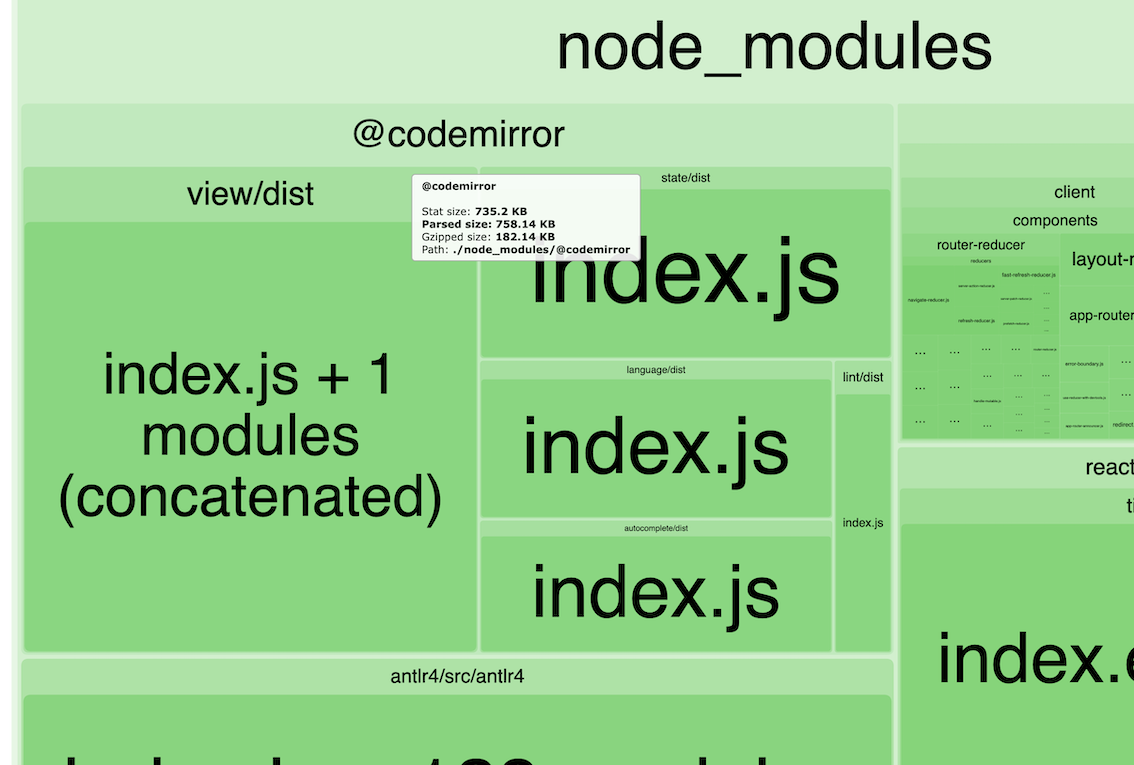
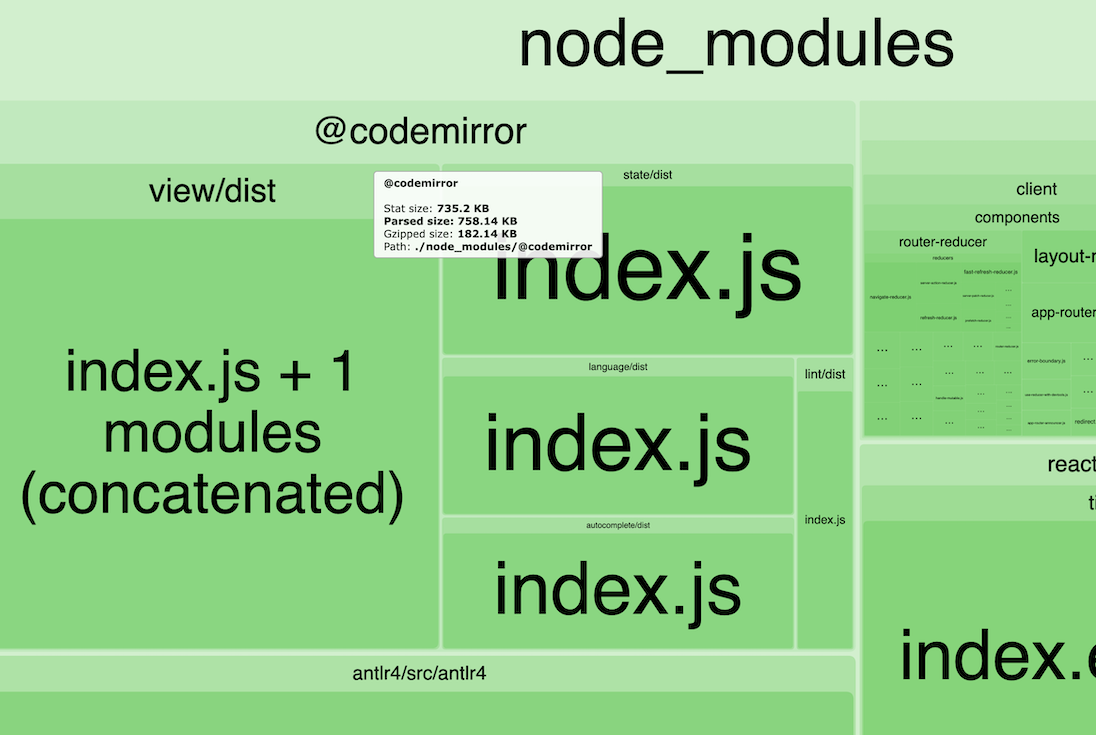
Fixed image orientation for performance analysis page

diff --git a/components/Pages/Performance.js b/components/Pages/Performance.js
@@ -68,30 +68,32 @@ const MainPerformance = () => {
               style={{ marginTop: "1rem" }}
               alt="Performance analysis"
             />
-            <h1
-              id="section2"
-              style={{
-                color: themeStyles.col02.color,
-                paddingTop: "40px",
-                fontSize: "20px",
-                fontFamily: themeStyles.font,
-                fontWeight: "500",
-              }}
-            >
-              Webpack bundle analysis
-            </h1>
-            <span style={{ display: "flex", marginTop: "1rem" }}>
-              <Image
-                src={bundleAnalyzer1}
-                alt="Bundle analyzer 1"
-                style={{ width: "26.2rem", marginInlineEnd: "1rem" }}
-              />
-              <Image
-                src={bundleAnalyzer2}
-                alt="Bundle analyzer 2"
-                style={{ width: "26.2rem" }}
-              />
-            </span>
+            <div>
+              <h1
+                id="section2"
+                style={{
+                  color: themeStyles.col02.color,
+                  paddingTop: "40px",
+                  fontSize: "20px",
+                  fontFamily: themeStyles.font,
+                  fontWeight: "500",
+                }}
+              >
+                Webpack bundle analysis
+              </h1>
+              <span style={{ display: "flex", marginTop: "1rem" }}>
+                <Image
+                  src={bundleAnalyzer1}
+                  alt="Bundle analyzer 1"
+                  style={{ marginInlineEnd: "2%", width: "49%" }}
+                />
+                <Image
+                  src={bundleAnalyzer2}
+                  alt="Bundle analyzer 2"
+                  style={{ width: "49%" }}
+                />
+              </span>
+            </div>
             <h1
               id="section3"
               style={{
@@ -107,7 +109,7 @@ const MainPerformance = () => {
             <Image
               src={bundleAnalyzer3}
               alt="Codemirror bundle analysis"
-              style={{ marginTop: "1rem" }}
+              style={{ marginTop: "1rem", width: "100%" }}
             />
             <h1
               id="section4"
@@ -122,7 +124,7 @@ const MainPerformance = () => {
               Production build size comparision
             </h1>
             <span style={{ display: "flex", marginTop: "1rem" }}>
-              <div>
+              <div style={{ width: "49%" }}>
                 <span
                   style={{
                     marginBottom: "1rem",
@@ -138,7 +140,7 @@ const MainPerformance = () => {
                   alt="Moanco bundle size"
                 />
               </div>
-              <div>
+              <div style={{ width: "49%" }}>
                 <span
                   style={{
                     marginInlineStart: "1rem",

diff --git a/next.config.js b/next.config.js
@@ -9,7 +9,7 @@ module.exports = {
     return [
       {
         source: "/",
-        destination: "/intro/",
+        destination: "/intro",
         permanent: false,
       },
     ];
